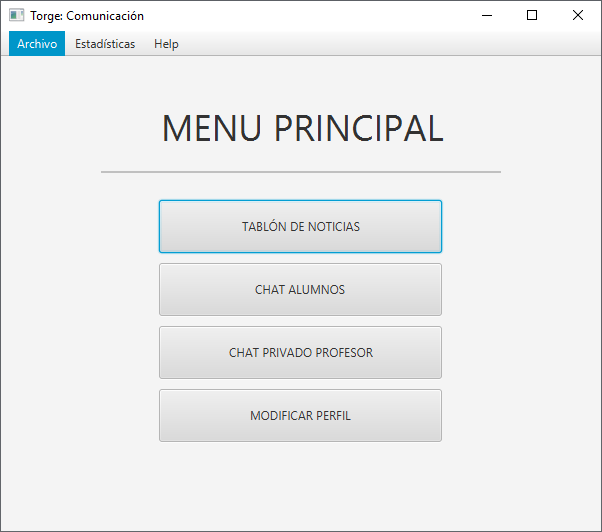
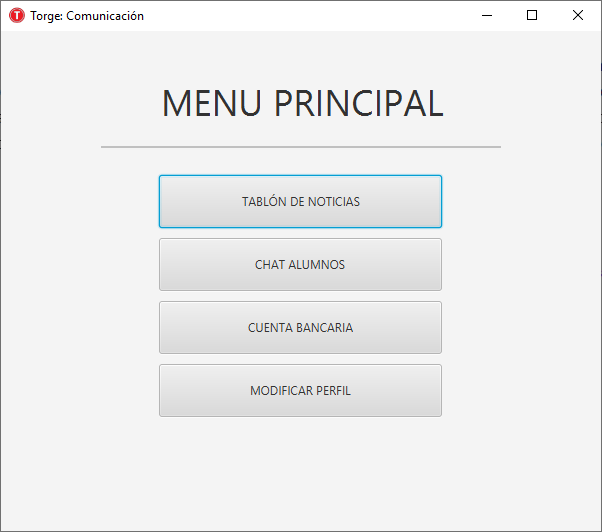
Actualizar Vistas

diff --git a/README.md b/README.md
@@ -594,7 +594,7 @@ Que los alumnos puedan visualizar la noticia publicada
 
 ### <b>VISTA CHAT PRIVADO</b>
 <p align="center">
-<img src="/resources/vistas/VistaChatPrivado.png"/>
+<img src="/resources/vistas/VistaCuentaBancaria.png"/>
 </p>
 
 ### <b>VISTA MODIFICAR PERFIL</b>
